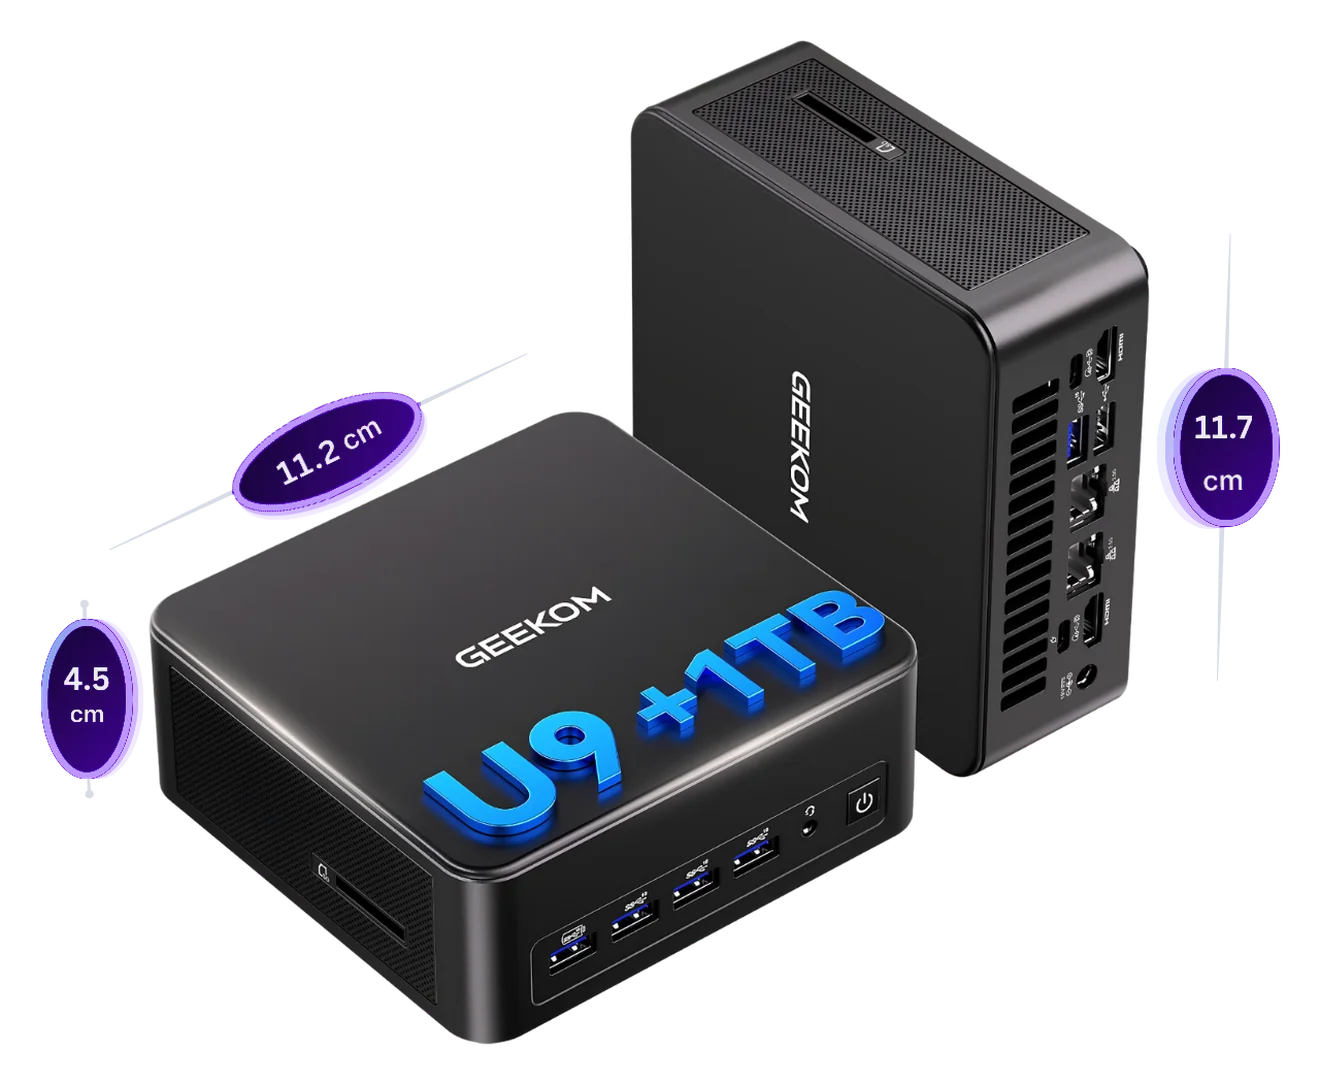
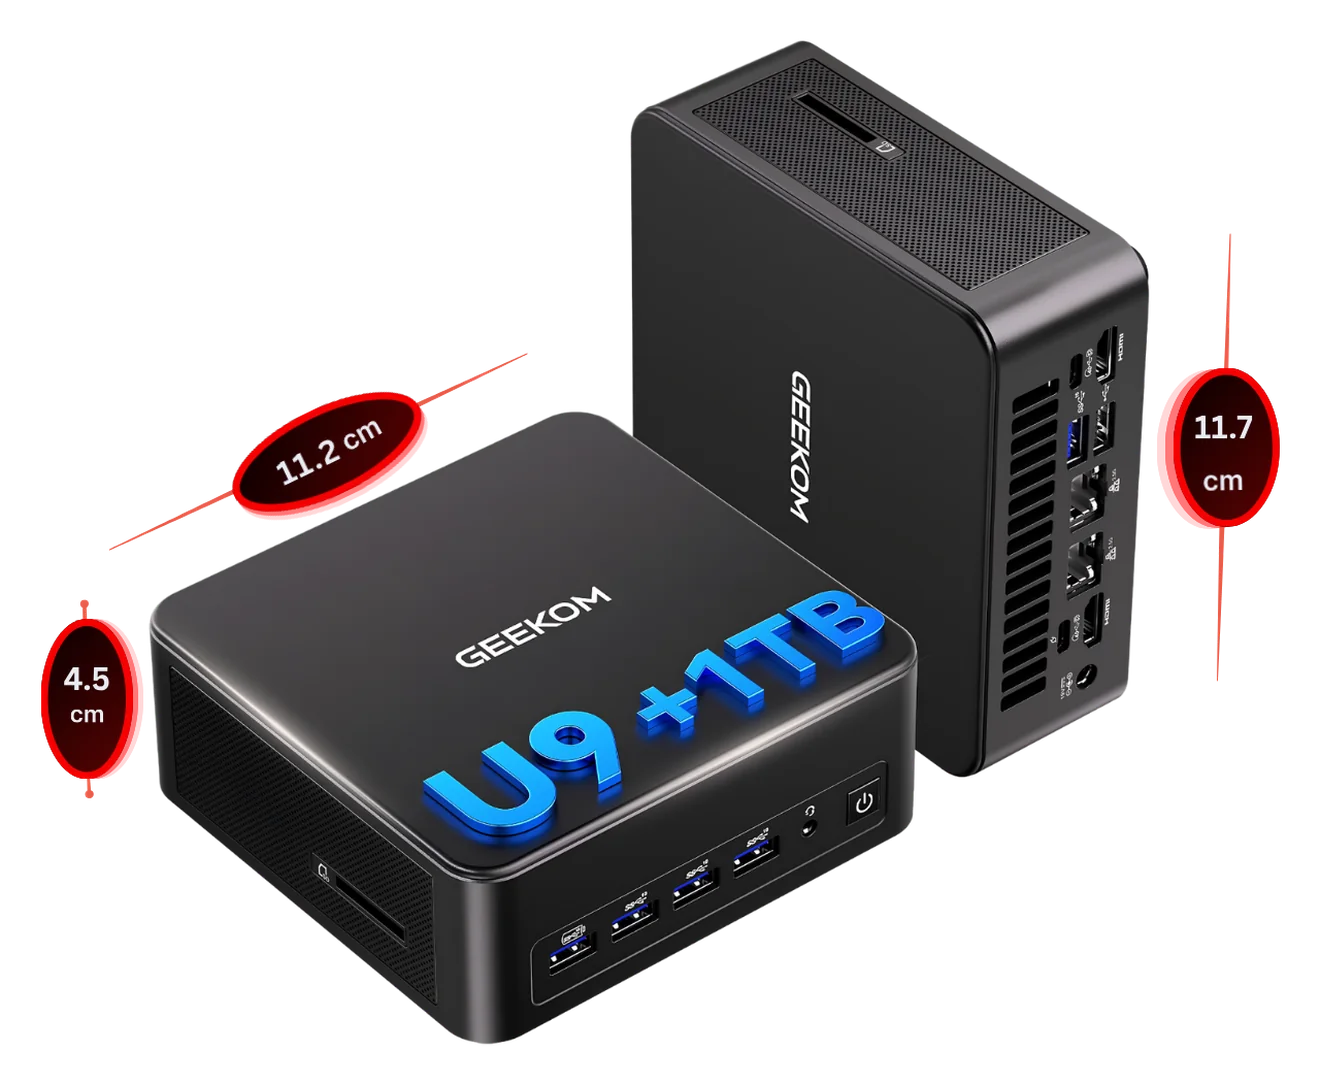
CID: restore the fire-opal red measurements on the Viv art
Reprocesses the raw upload through the same pipeline as before, trimmed to
content with an even margin, 1320px, WebP q84, identical 1320x1084 output,
with the recolour step dropped. Verified: 10,559 red pixels in the export
against 0 before, 106 KB.

This reverses a call I made when the art first went in. I recoloured the
red callouts to portal violet then, to keep the room on the brand palette.
On the room's purple walls that left violet on violet with nothing to
separate them, which is the problem being reported here; the red reads as
laser measurement against that field and the violet never could.

The filename is unchanged, so the image carries its own ?v=2 query and the
iframe goes to ?v=3. Without the first one, browsers holding the violet
copy would keep serving it no matter what the HTML says.

Not yet pushed to main, awaiting sign-off.

Claude-Session: https://claude.ai/code/session_01JdJJzQVDyRy6sqpR2U8vH6

diff --git a/src/app/components/CID.tsx b/src/app/components/CID.tsx
@@ -958,7 +958,7 @@ export function CID({ onSupport }: { onSupport: () => void }) {
               <iframe
                 ref={roomRef}
                 className="cid-vivroom-frame"
-                src={`${base}DISPLAY_ROOM_BLUE_checker_cm.html?v=2`}
+                src={`${base}DISPLAY_ROOM_BLUE_checker_cm.html?v=3`}
                 title="The Viv display room: the always-on AI mini-PC that houses the CID Vivarium"
                 loading="lazy"
               />

diff --git a/public/DISPLAY_ROOM_BLUE_checker_cm.html b/public/DISPLAY_ROOM_BLUE_checker_cm.html
@@ -66,7 +66,7 @@
 
 <div class="mount" id="mount">
   <div class="mount-inner">
-    <img class="obj" id="obj" src="assets/images/viv-contained.webp" alt="The Viv, the always-on AI mini-PC, 11.7 by 11.2 by 4.5 cm" />
+    <img class="obj" id="obj" src="assets/images/viv-contained.webp?v=2" alt="The Viv, the always-on AI mini-PC, 11.7 by 11.2 by 4.5 cm" />
     <div class="reflection" aria-hidden="true"><img src="" alt="" /></div>
 
   </div>
